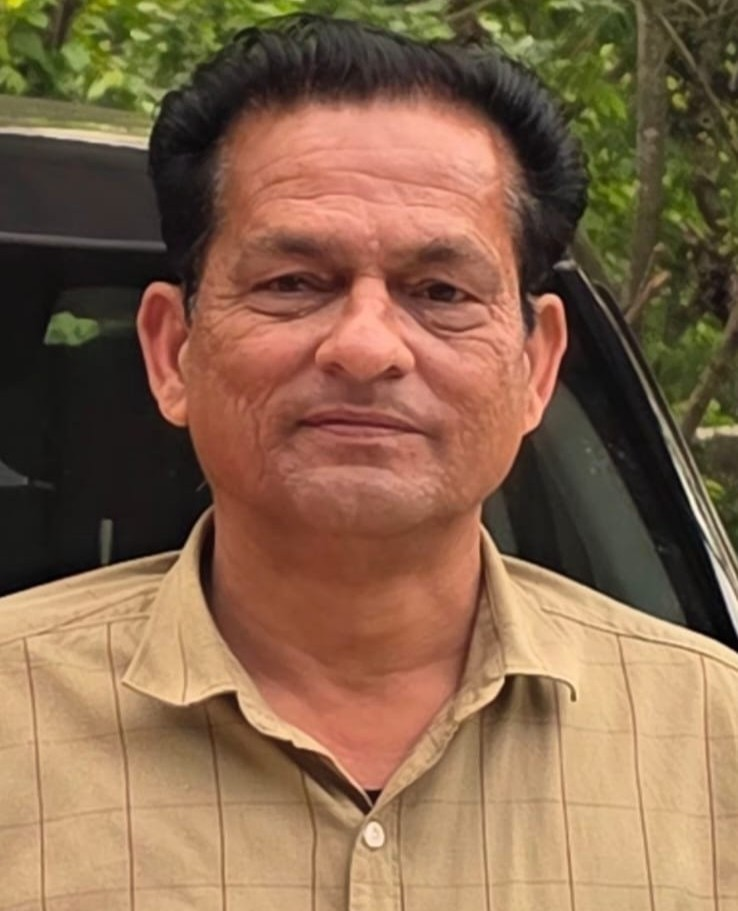
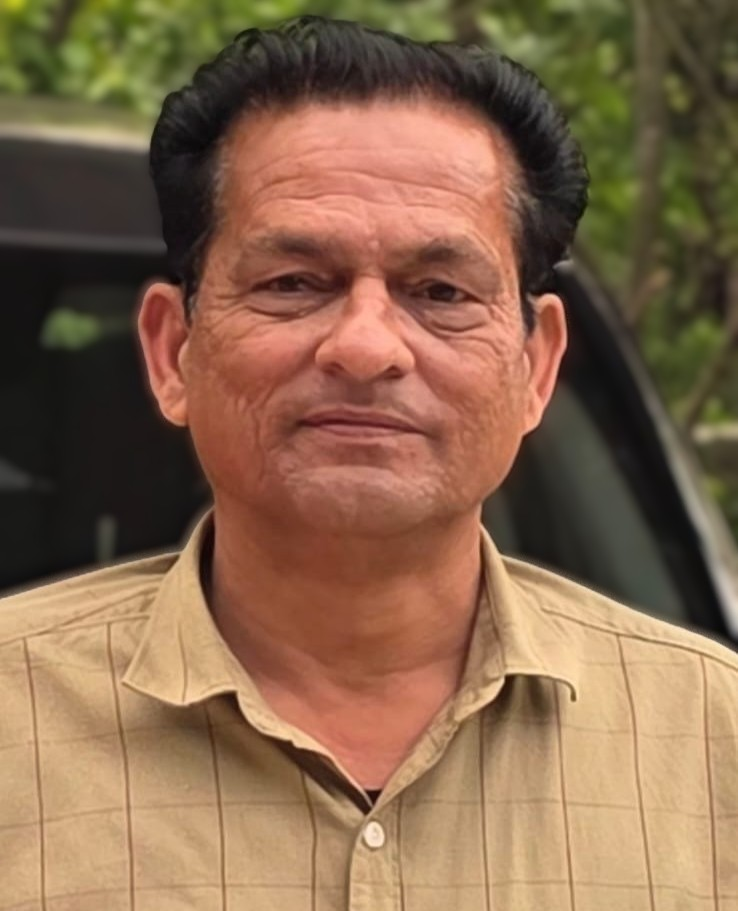
Updated Principal, Dr. Naresh, and Dr. Pawan images to final versions

diff --git a/public/index.html b/public/index.html
@@ -217,7 +217,7 @@
                 <!-- Technical Assistance Card -->
                 <div class="leader-card leader-card--pawan glass-panel stagger-item">
                     <div class="leader-image-wrapper">
-                        <img src="images/leadership/pawan_new.jpg" alt="Dr. Pawan Thakur" class="leader-image leader-image--pawan">
+                        <img src="images/leadership/pawan_final.jpg" alt="Dr. Pawan Thakur" class="leader-image leader-image--pawan">
                         <div class="leader-overlay">
                             <button class="btn btn-glass btn-glow read-more-btn" onclick="openBioModal('bio-pawan')">Read Full Profile</button>
                         </div>
